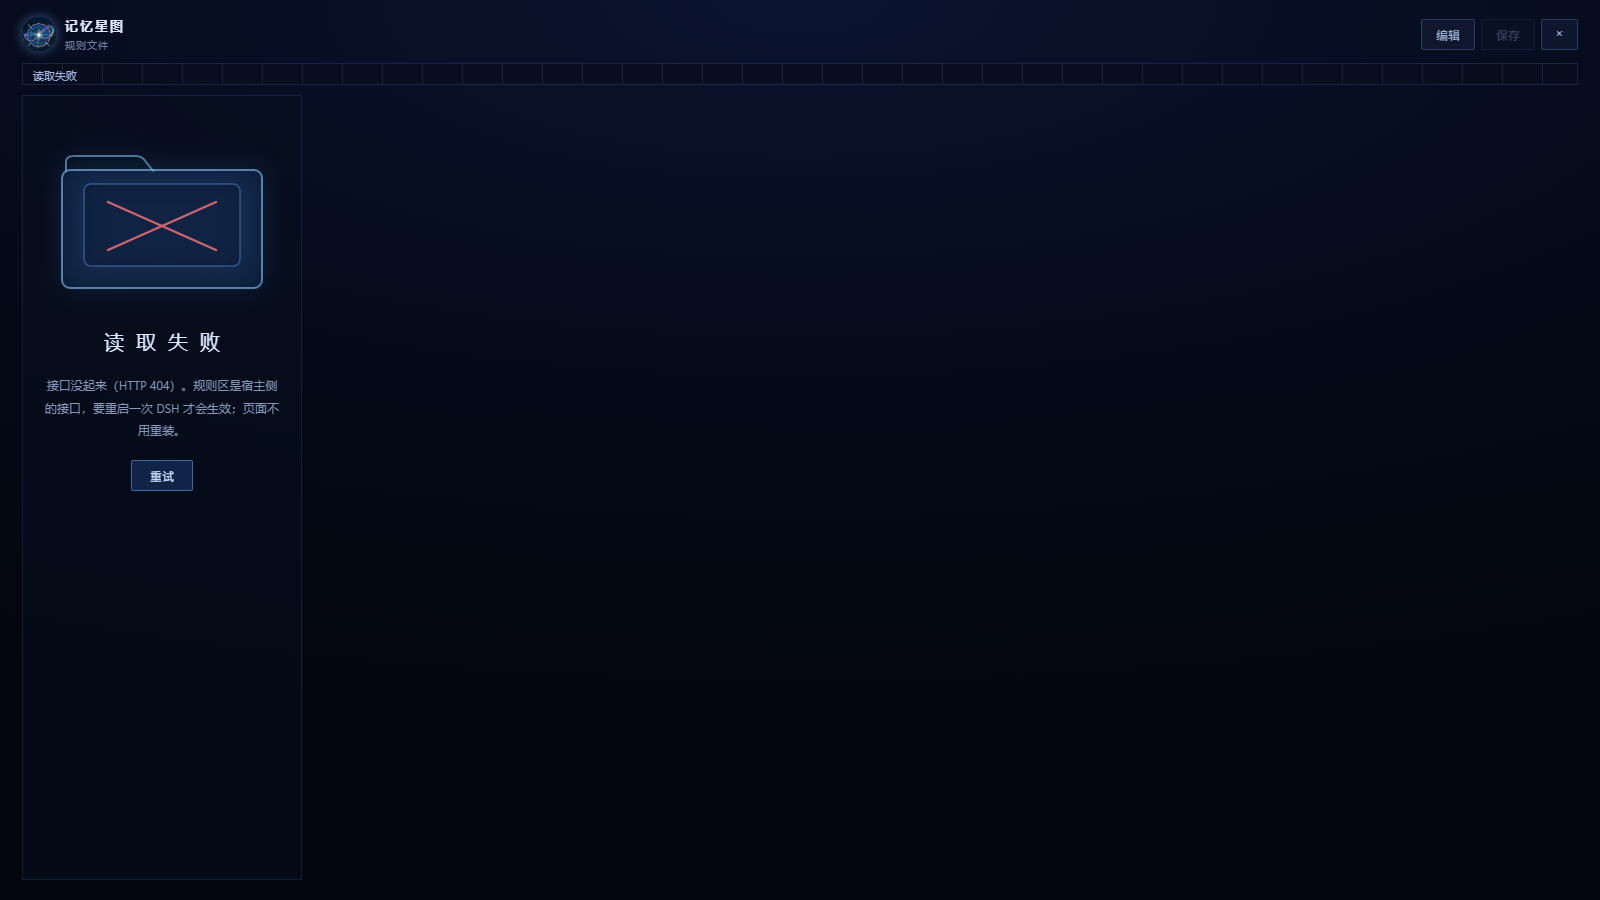
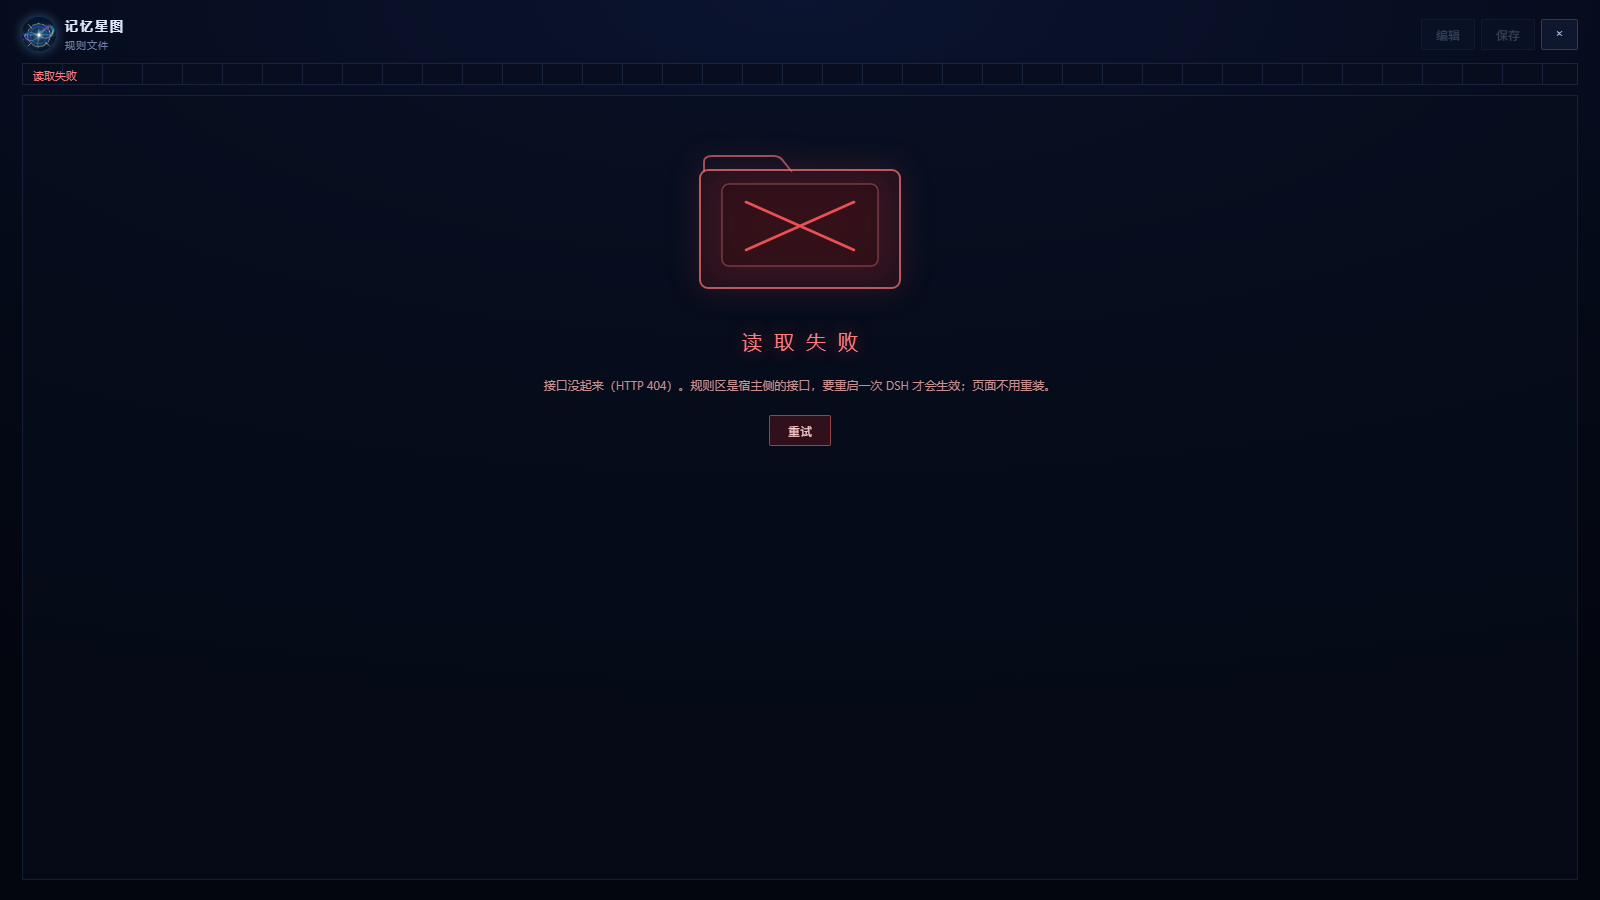
读取失败改成红色主题，按手绘稿的文件夹+X 排版

diff --git a/public/index.html b/public/index.html
@@ -189,13 +189,17 @@
   border: 1px solid rgba(110,160,240,0.35); padding: 12px; font-family: Consolas, monospace;
   font-size: 12.5px; line-height: 1.7; }
 .r-empty { flex: 1; display: flex; flex-direction: column; align-items: center; justify-content: center; gap: 14px; }
-.r-empty svg { filter: drop-shadow(0 0 14px rgba(90,170,255,0.35)); }
-.r-empty .e-title { font-size: 20px; letter-spacing: 12px; color: #dbe8ff; text-indent: 12px; }
-.r-empty .e-note { font-size: 12px; color: #8497bd; max-width: 520px; text-align: center; line-height: 1.9; }
+.r-empty svg { filter: drop-shadow(0 0 16px rgba(255,70,70,0.35)); }
+.r-empty .e-title { font-size: 20px; letter-spacing: 12px; color: #ff7b7b; text-indent: 12px;
+  text-shadow: 0 0 18px rgba(255,60,60,0.45); }
+.r-empty .e-note { font-size: 12px; color: #c98f8f; max-width: 520px; text-align: center; line-height: 1.9; }
 .r-empty .e-actions { display: flex; gap: 10px; margin-top: 4px; }
 .r-empty button { font-size: 12px; padding: 6px 18px; cursor: pointer; border-radius: 2px;
-  color: #cfe2ff; background: rgba(30,60,120,0.5); border: 1px solid rgba(120,190,255,0.45); }
-.r-empty button:hover { color: #fff; border-color: rgba(150,220,255,0.8); box-shadow: 0 0 14px rgba(90,180,255,0.35); }
+  color: #ffd0d0; background: rgba(90,22,28,0.5); border: 1px solid rgba(255,120,120,0.5); }
+.r-empty.teal svg { filter: drop-shadow(0 0 16px rgba(90,170,255,0.35)); }
+.r-empty.teal .e-title { color: #dbe8ff; text-shadow: 0 0 18px rgba(90,170,255,0.35); }
+.r-empty.teal .e-note { color: #8497bd; }
+.r-empty button:hover { color: #fff; border-color: rgba(255,160,160,0.85); box-shadow: 0 0 14px rgba(255,80,80,0.35); }
 .r-error button { margin-left: 10px; font-size: 12px; padding: 4px 12px; cursor: pointer;
   background: rgba(80,30,40,0.6); color: #ffd7d7; border: 1px solid rgba(255,140,140,0.45); border-radius: 2px; }
 .hidden { display: none !important; }
@@ -1047,21 +1051,26 @@
   const FOLDER_SVG = [
     '<svg width="236" height="176" viewBox="0 0 236 176" fill="none">',
     '<path d="M22 40 L22 30 Q22 24 30 24 L92 24 Q98 24 102 30 L110 40"',
-    ' stroke="rgba(130,200,255,0.55)" stroke-width="2" stroke-linejoin="round"/>',
+    ' stroke="rgba(255,120,120,0.6)" stroke-width="2" stroke-linejoin="round"/>',
     '<rect x="18" y="38" width="200" height="118" rx="8"',
-    ' fill="rgba(24,48,96,0.35)" stroke="rgba(130,200,255,0.6)" stroke-width="2"/>',
+    ' fill="rgba(64,18,26,0.35)" stroke="rgba(255,120,120,0.7)" stroke-width="2"/>',
     '<rect x="40" y="52" width="156" height="82" rx="7"',
-    ' fill="rgba(10,22,48,0.5)" stroke="rgba(120,180,255,0.35)" stroke-width="1.5"/>',
-    '<path d="M64 70 L172 118 M172 70 L64 118" stroke="rgba(255,120,120,0.8)" stroke-width="2.4" stroke-linecap="round"/>',
+    ' fill="rgba(40,10,18,0.45)" stroke="rgba(255,140,140,0.35)" stroke-width="1.5"/>',
+    '<path d="M64 70 L172 118 M172 70 L64 118" stroke="rgba(255,90,90,0.9)" stroke-width="2.6" stroke-linecap="round"/>',
     '</svg>',
   ].join('');
 
   function showError(msg) {
     R('r-note').textContent = '读取失败';
+    R('r-note').style.color = '#ff7b7b';
     R('r-title').textContent = '';
     R('r-cabinet').style.display = 'none';
+    R('r-edit').disabled = true;
+    R('r-save').disabled = true;
     const aside = document.querySelector('.r-list');
     if (aside) aside.style.display = 'none';
+    const main = document.querySelector('.r-main');
+    if (main) main.style.gridTemplateColumns = '1fr';
     R('r-view').style.flex = '1';
     R('r-meta').textContent = '';
     R('r-list').innerHTML = '';
@@ -1089,14 +1098,18 @@
     }
     rulesData = await res.json();
     R('r-cabinet').style.display = '';
+    R('r-edit').disabled = false;
     const aside2 = document.querySelector('.r-list');
     if (aside2) aside2.style.display = '';
+    const main2 = document.querySelector('.r-main');
+    if (main2) main2.style.gridTemplateColumns = '';
     rulesIdx = Math.min(rulesIdx, rulesData.workspaces.length);
     renderTabs();
     renderCabinet();
     const total = 1 + rulesData.workspaces.length;
     const have = (rulesData.main.exists ? 1 : 0) + rulesData.workspaces.filter((w) => w.exists).length;
     R('r-bar').style.width = (have / total * 100).toFixed(1) + '%';
+    R('r-note').style.color = '';
     R('r-note').textContent = '规则文件 ' + have + ' / ' + total + ' 份已就绪';
     await pickFile(rulesIdx);
   }
@@ -1165,7 +1178,7 @@
     if (!f.exists) {
       R('r-meta').textContent = f.path + '（还没有这个文件）';
       R('r-list').innerHTML = '';
-      R('r-view').innerHTML = '<div class="r-empty">' + FOLDER_SVG
+      R('r-view').innerHTML = '<div class="r-empty teal">' + FOLDER_SVG
         + '<div class="e-title">还没有规则</div>'
         + '<div class="e-note">' + fileLabel(f) + ' 还没有 AGENTS.md。点「编辑」新建，内容只有一行标题：# ' + fileLabel(f) + ' · 规则</div></div>';
       R('r-edit').dataset.create = '1';
